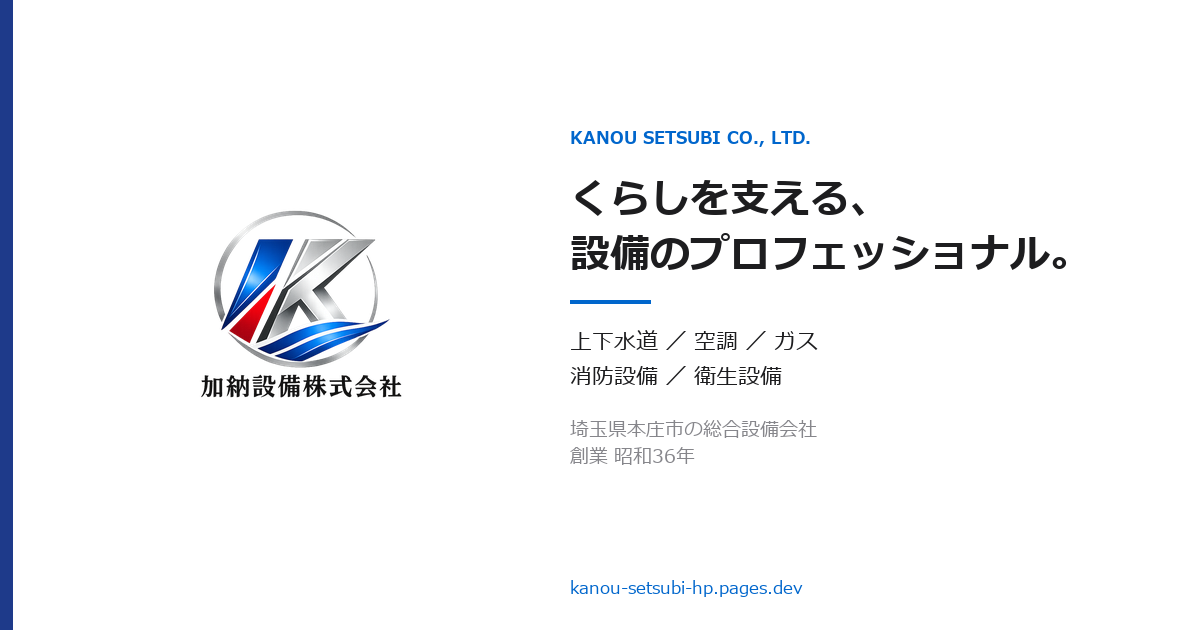
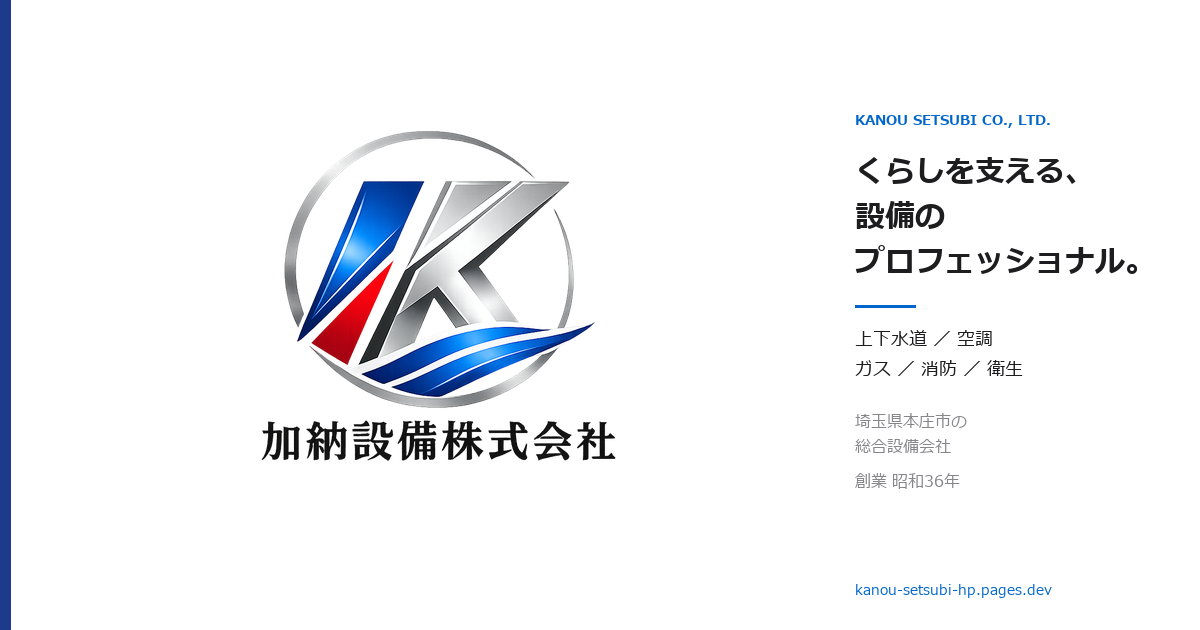
OGP画像: ロゴを枠いっぱい(高さ530)に拡大しテキスト3行分割

diff --git a/scripts/generate_ogp.py b/scripts/generate_ogp.py
@@ -26,49 +26,51 @@ img = Image.new("RGB", (W, H), BG)
 draw = ImageDraw.Draw(img)
 
 # 左帯: アクセントカラーの細い縦ライン (BRAND #1E3A8A)
-draw.rectangle([(0, 0), (12, H)], fill=(30, 58, 138))
+draw.rectangle([(0, 0), (10, H)], fill=(30, 58, 138))
 
-# ロゴ配置 (左)
+# ロゴ配置 (左に大きく)
 logo = Image.open(LOGO).convert("RGBA")
-target_h = 300
+target_h = 530  # 上下余白約50px
 ratio = target_h / logo.height
 new_w = int(logo.width * ratio)
 logo = logo.resize((new_w, target_h), Image.LANCZOS)
 
-logo_x = 70
+logo_x = 30
 logo_y = (H - target_h) // 2
 img.paste(logo, (logo_x, logo_y), logo)
 
 # 右側テキストエリア
-text_x = logo_x + new_w + 50
-text_right = W - 50
+text_x = logo_x + new_w + 30
+text_right = W - 35
 
-f_title = ImageFont.truetype(str(FONT_BOLD), 40)
-f_sub = ImageFont.truetype(str(FONT_REG), 22)
-f_small = ImageFont.truetype(str(FONT_REG), 19)
-f_eyebrow = ImageFont.truetype(str(FONT_BOLD), 17)
+f_title = ImageFont.truetype(str(FONT_BOLD), 30)
+f_sub = ImageFont.truetype(str(FONT_REG), 18)
+f_small = ImageFont.truetype(str(FONT_REG), 16)
+f_eyebrow = ImageFont.truetype(str(FONT_BOLD), 14)
 
 # eyebrow
-draw.text((text_x, 125), "KANOU SETSUBI CO., LTD.", font=f_eyebrow, fill=LINK)
+draw.text((text_x, 110), "KANOU SETSUBI CO., LTD.", font=f_eyebrow, fill=LINK)
 
-# メインタイトル (2行)
-draw.text((text_x, 170), "くらしを支える、", font=f_title, fill=INK)
-draw.text((text_x, 225), "設備のプロフェッショナル。", font=f_title, fill=INK)
+# メインタイトル (3行に分割)
+draw.text((text_x, 150), "くらしを支える、", font=f_title, fill=INK)
+draw.text((text_x, 195), "設備の", font=f_title, fill=INK)
+draw.text((text_x, 240), "プロフェッショナル。", font=f_title, fill=INK)
 
 # 仕切り線
-draw.rectangle([(text_x, 300), (text_x + 80, 303)], fill=LINK)
+draw.rectangle([(text_x, 305), (text_x + 60, 307)], fill=LINK)
 
-# 事業領域
-draw.text((text_x, 325), "上下水道 ／ 空調 ／ ガス", font=f_sub, fill=INK)
-draw.text((text_x, 360), "消防設備 ／ 衛生設備", font=f_sub, fill=INK)
+# 事業領域 (2行)
+draw.text((text_x, 325), "上下水道 ／ 空調", font=f_sub, fill=INK)
+draw.text((text_x, 355), "ガス ／ 消防 ／ 衛生", font=f_sub, fill=INK)
 
 # 地域・創業
-draw.text((text_x, 415), "埼玉県本庄市の総合設備会社", font=f_small, fill=MUTED)
-draw.text((text_x, 442), "創業 昭和36年", font=f_small, fill=MUTED)
+draw.text((text_x, 410), "埼玉県本庄市の", font=f_small, fill=MUTED)
+draw.text((text_x, 435), "総合設備会社", font=f_small, fill=MUTED)
+draw.text((text_x, 470), "創業 昭和36年", font=f_small, fill=MUTED)
 
 # 右下にURL
-f_url = ImageFont.truetype(str(FONT_REG), 17)
-draw.text((text_x, H - 55), "kanou-setsubi-hp.pages.dev", font=f_url, fill=LINK)
+f_url = ImageFont.truetype(str(FONT_REG), 14)
+draw.text((text_x, H - 50), "kanou-setsubi-hp.pages.dev", font=f_url, fill=LINK)
 
 img.save(OUT, "PNG", optimize=True)
 print(f"saved: {OUT}  ({OUT.stat().st_size // 1024} KB)")
